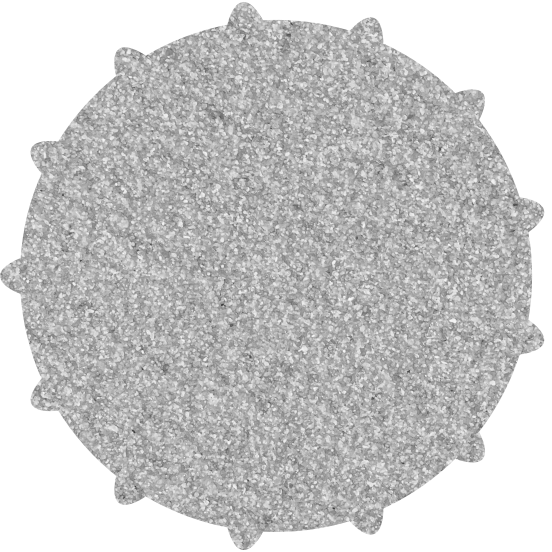
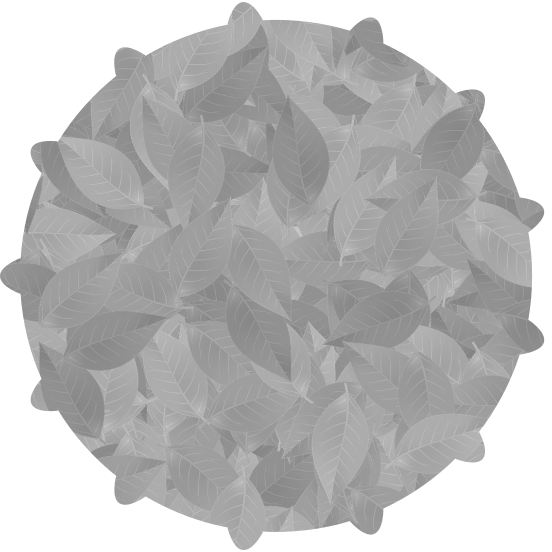
update surface patterns

Changed region(s): [[0.0, 0.0, 0.9855, 1.0]]

diff --git a/lib/relationship.dart b/lib/relationship.dart
@@ -70,7 +70,7 @@ class _RelationshipState extends State<Relationship> {
                                                 widget.mainColor,
                                                 BlendMode.modulate),
                                             image: const AssetImage(
-                                                'assets/images/grey_small.png'),
+                                                'assets/images/background_B.png'),
                                             fit: BoxFit.cover),
                                         borderRadius: BorderRadius.all(
                                             Radius.circular(
@@ -101,7 +101,7 @@ class _RelationshipState extends State<Relationship> {
                                                 widget.mainColor,
                                                 BlendMode.modulate),
                                             image: const AssetImage(
-                                                'assets/images/grey_small.png'),
+                                                'assets/images/background_B.png'),
                                             fit: BoxFit.cover),
                                         /*color: const Color.fromARGB(
                                             255, 102, 153, 255),*/
@@ -139,7 +139,7 @@ class _RelationshipState extends State<Relationship> {
                                                 widget.mainColor,
                                                 BlendMode.modulate),
                                             image: const AssetImage(
-                                                'assets/images/grey_small.png'),
+                                                'assets/images/background_B.png'),
                                             fit: BoxFit.cover),
                                         /*color: const Color.fromARGB(
                                             255, 102, 153, 255),*/
@@ -172,7 +172,7 @@ class _RelationshipState extends State<Relationship> {
                                                 widget.mainColor,
                                                 BlendMode.modulate),
                                             image: const AssetImage(
-                                                'assets/images/grey_small.png'),
+                                                'assets/images/background_B.png'),
                                             fit: BoxFit.cover),
                                         /*color: const Color.fromARGB(
                                             255, 102, 153, 255),*/
@@ -202,7 +202,7 @@ class _RelationshipState extends State<Relationship> {
                                     colorFilter: ColorFilter.mode(
                                         widget.mainColor, BlendMode.modulate),
                                     image: const AssetImage(
-                                        'assets/images/grey_small.png'),
+                                        'assets/images/background_B.png'),
                                     fit: BoxFit.cover),
                                 /*color: const Color.fromARGB(255, 102, 153, 255),*/
                                 border: Border.all(

diff --git a/lib/selection_dialog.dart b/lib/selection_dialog.dart
@@ -28,7 +28,8 @@ Center selectionDialog(BuildContext context, int yearIndex, int dayIndex) {
                             image: const DecorationImage(
                                 colorFilter: ColorFilter.mode(
                                     Colors.orange, BlendMode.modulate),
-                                image: AssetImage('assets/images/grey.png'),
+                                image: AssetImage(
+                                    'assets/images/background_button.png'),
                                 fit: BoxFit.cover),
                             border: Border.all(color: Colors.white, width: 1),
                             borderRadius: BorderRadius.circular(10),
@@ -64,7 +65,8 @@ Center selectionDialog(BuildContext context, int yearIndex, int dayIndex) {
                             image: const DecorationImage(
                                 colorFilter: ColorFilter.mode(
                                     Colors.green, BlendMode.modulate),
-                                image: AssetImage('assets/images/grey.png'),
+                                image: AssetImage(
+                                    'assets/images/background_button.png'),
                                 fit: BoxFit.cover),
                             border: Border.all(color: Colors.white, width: 1),
                             borderRadius: BorderRadius.circular(10),
@@ -97,7 +99,8 @@ Center selectionDialog(BuildContext context, int yearIndex, int dayIndex) {
                             image: const DecorationImage(
                                 colorFilter: ColorFilter.mode(
                                     Colors.blue, BlendMode.modulate),
-                                image: AssetImage('assets/images/grey.png'),
+                                image: AssetImage(
+                                    'assets/images/background_button.png'),
                                 fit: BoxFit.cover),
                             border: Border.all(color: Colors.white, width: 1),
                             borderRadius: BorderRadius.circular(10),

diff --git a/lib/items.dart b/lib/items.dart
@@ -198,7 +198,7 @@ Dismissible eventItem(int yearIndex, int dayIndex, String begin, String end,
                       image: const DecorationImage(
                           colorFilter: ColorFilter.mode(
                               Colors.orange, BlendMode.modulate),
-                          image: AssetImage('assets/images/grey.png'),
+                          image: AssetImage('assets/images/background_A.png'),
                           fit: BoxFit.cover),
                       //color: Colors.amber[700],
                       border: Border.all(color: Colors.white, width: 1),
@@ -374,7 +374,7 @@ Dismissible noteItem(
                       image: const DecorationImage(
                           colorFilter: ColorFilter.mode(
                               Colors.green, BlendMode.modulate),
-                          image: AssetImage('assets/images/grey.png'),
+                          image: AssetImage('assets/images/background_A.png'),
                           fit: BoxFit.cover),
                       //color: Colors.green[700],
                       border: Border.all(color: Colors.white, width: 1),
@@ -557,7 +557,7 @@ Dismissible taskItem(int yearIndex, int dayIndex, String task, bool isChecked,
                       image: const DecorationImage(
                           colorFilter:
                               ColorFilter.mode(Colors.blue, BlendMode.modulate),
-                          image: AssetImage('assets/images/grey.png'),
+                          image: AssetImage('assets/images/background_A.png'),
                           fit: BoxFit.cover),
                       border: Border.all(color: Colors.white, width: 1),
                       borderRadius: BorderRadius.circular(10),

diff --git a/lib/the_year.dart b/lib/the_year.dart
@@ -259,8 +259,8 @@ class _TheYearState extends State<TheYear> {
                             image: DecorationImage(
                                 colorFilter: ColorFilter.mode(
                                     widget.mainColor, BlendMode.modulate),
-                                image:
-                                    const AssetImage('assets/images/grey.png'),
+                                image: const AssetImage(
+                                    'assets/images/background_A.png'),
                                 fit: BoxFit.cover),
                           ),
                           child: MaterialButton(

diff --git a/lib/note_dialog.dart b/lib/note_dialog.dart
@@ -55,7 +55,8 @@ class _NoteDialogState extends State<NoteDialog> {
                           image: const DecorationImage(
                               colorFilter: ColorFilter.mode(
                                   Colors.green, BlendMode.modulate),
-                              image: AssetImage('assets/images/grey.png'),
+                              image:
+                                  AssetImage('assets/images/background_A.png'),
                               fit: BoxFit.cover),
                           //color: Colors.green[700],
                           border: Border.all(color: Colors.white, width: 1),

diff --git a/lib/task_dialog.dart b/lib/task_dialog.dart
@@ -55,7 +55,8 @@ class _TaskDialogState extends State<TaskDialog> {
                           image: const DecorationImage(
                               colorFilter: ColorFilter.mode(
                                   Colors.blue, BlendMode.modulate),
-                              image: AssetImage('assets/images/grey.png'),
+                              image:
+                                  AssetImage('assets/images/background_A.png'),
                               fit: BoxFit.cover),
                           //color: Colors.indigo[700],
                           border: Border.all(color: Colors.white, width: 1),

diff --git a/lib/cholqij.dart b/lib/cholqij.dart
@@ -56,7 +56,7 @@ class _CholqijState extends State<Cholqij> {
                                       colorFilter: ColorFilter.mode(
                                           widget.mainColor, BlendMode.modulate),
                                       image: const AssetImage(
-                                          'assets/images/grey.png'),
+                                          'assets/images/background_A.png'),
                                       fit: BoxFit.cover),
                                   borderRadius: BorderRadius.all(
                                       Radius.circular(

diff --git a/lib/event_dialog.dart b/lib/event_dialog.dart
@@ -168,7 +168,7 @@ class _EventDialogState extends State<EventDialog> {
                         image: const DecorationImage(
                             colorFilter: ColorFilter.mode(
                                 Colors.orange, BlendMode.modulate),
-                            image: AssetImage('assets/images/grey.png'),
+                            image: AssetImage('assets/images/background_A.png'),
                             fit: BoxFit.cover),
                         border: Border.all(color: Colors.white, width: 1),
                         borderRadius: BorderRadius.circular(10),

diff --git a/lib/main.dart b/lib/main.dart
@@ -204,8 +204,9 @@ class _HomeState extends State<Home> with TickerProviderStateMixin {
     'assets/images/nahuales/18_kawoq.png',
     'assets/images/nahuales/19_ajpu.png',
     //
-    'assets/images/grey.png',
-    'assets/images/grey_small.png',
+    'assets/images/background_button.png',
+    'assets/images/background_A.png',
+    'assets/images/background_B.png',
     //
     'assets/images/cholqij_field_red.jpg',
     'assets/images/cholqij_field_white.jpg',
